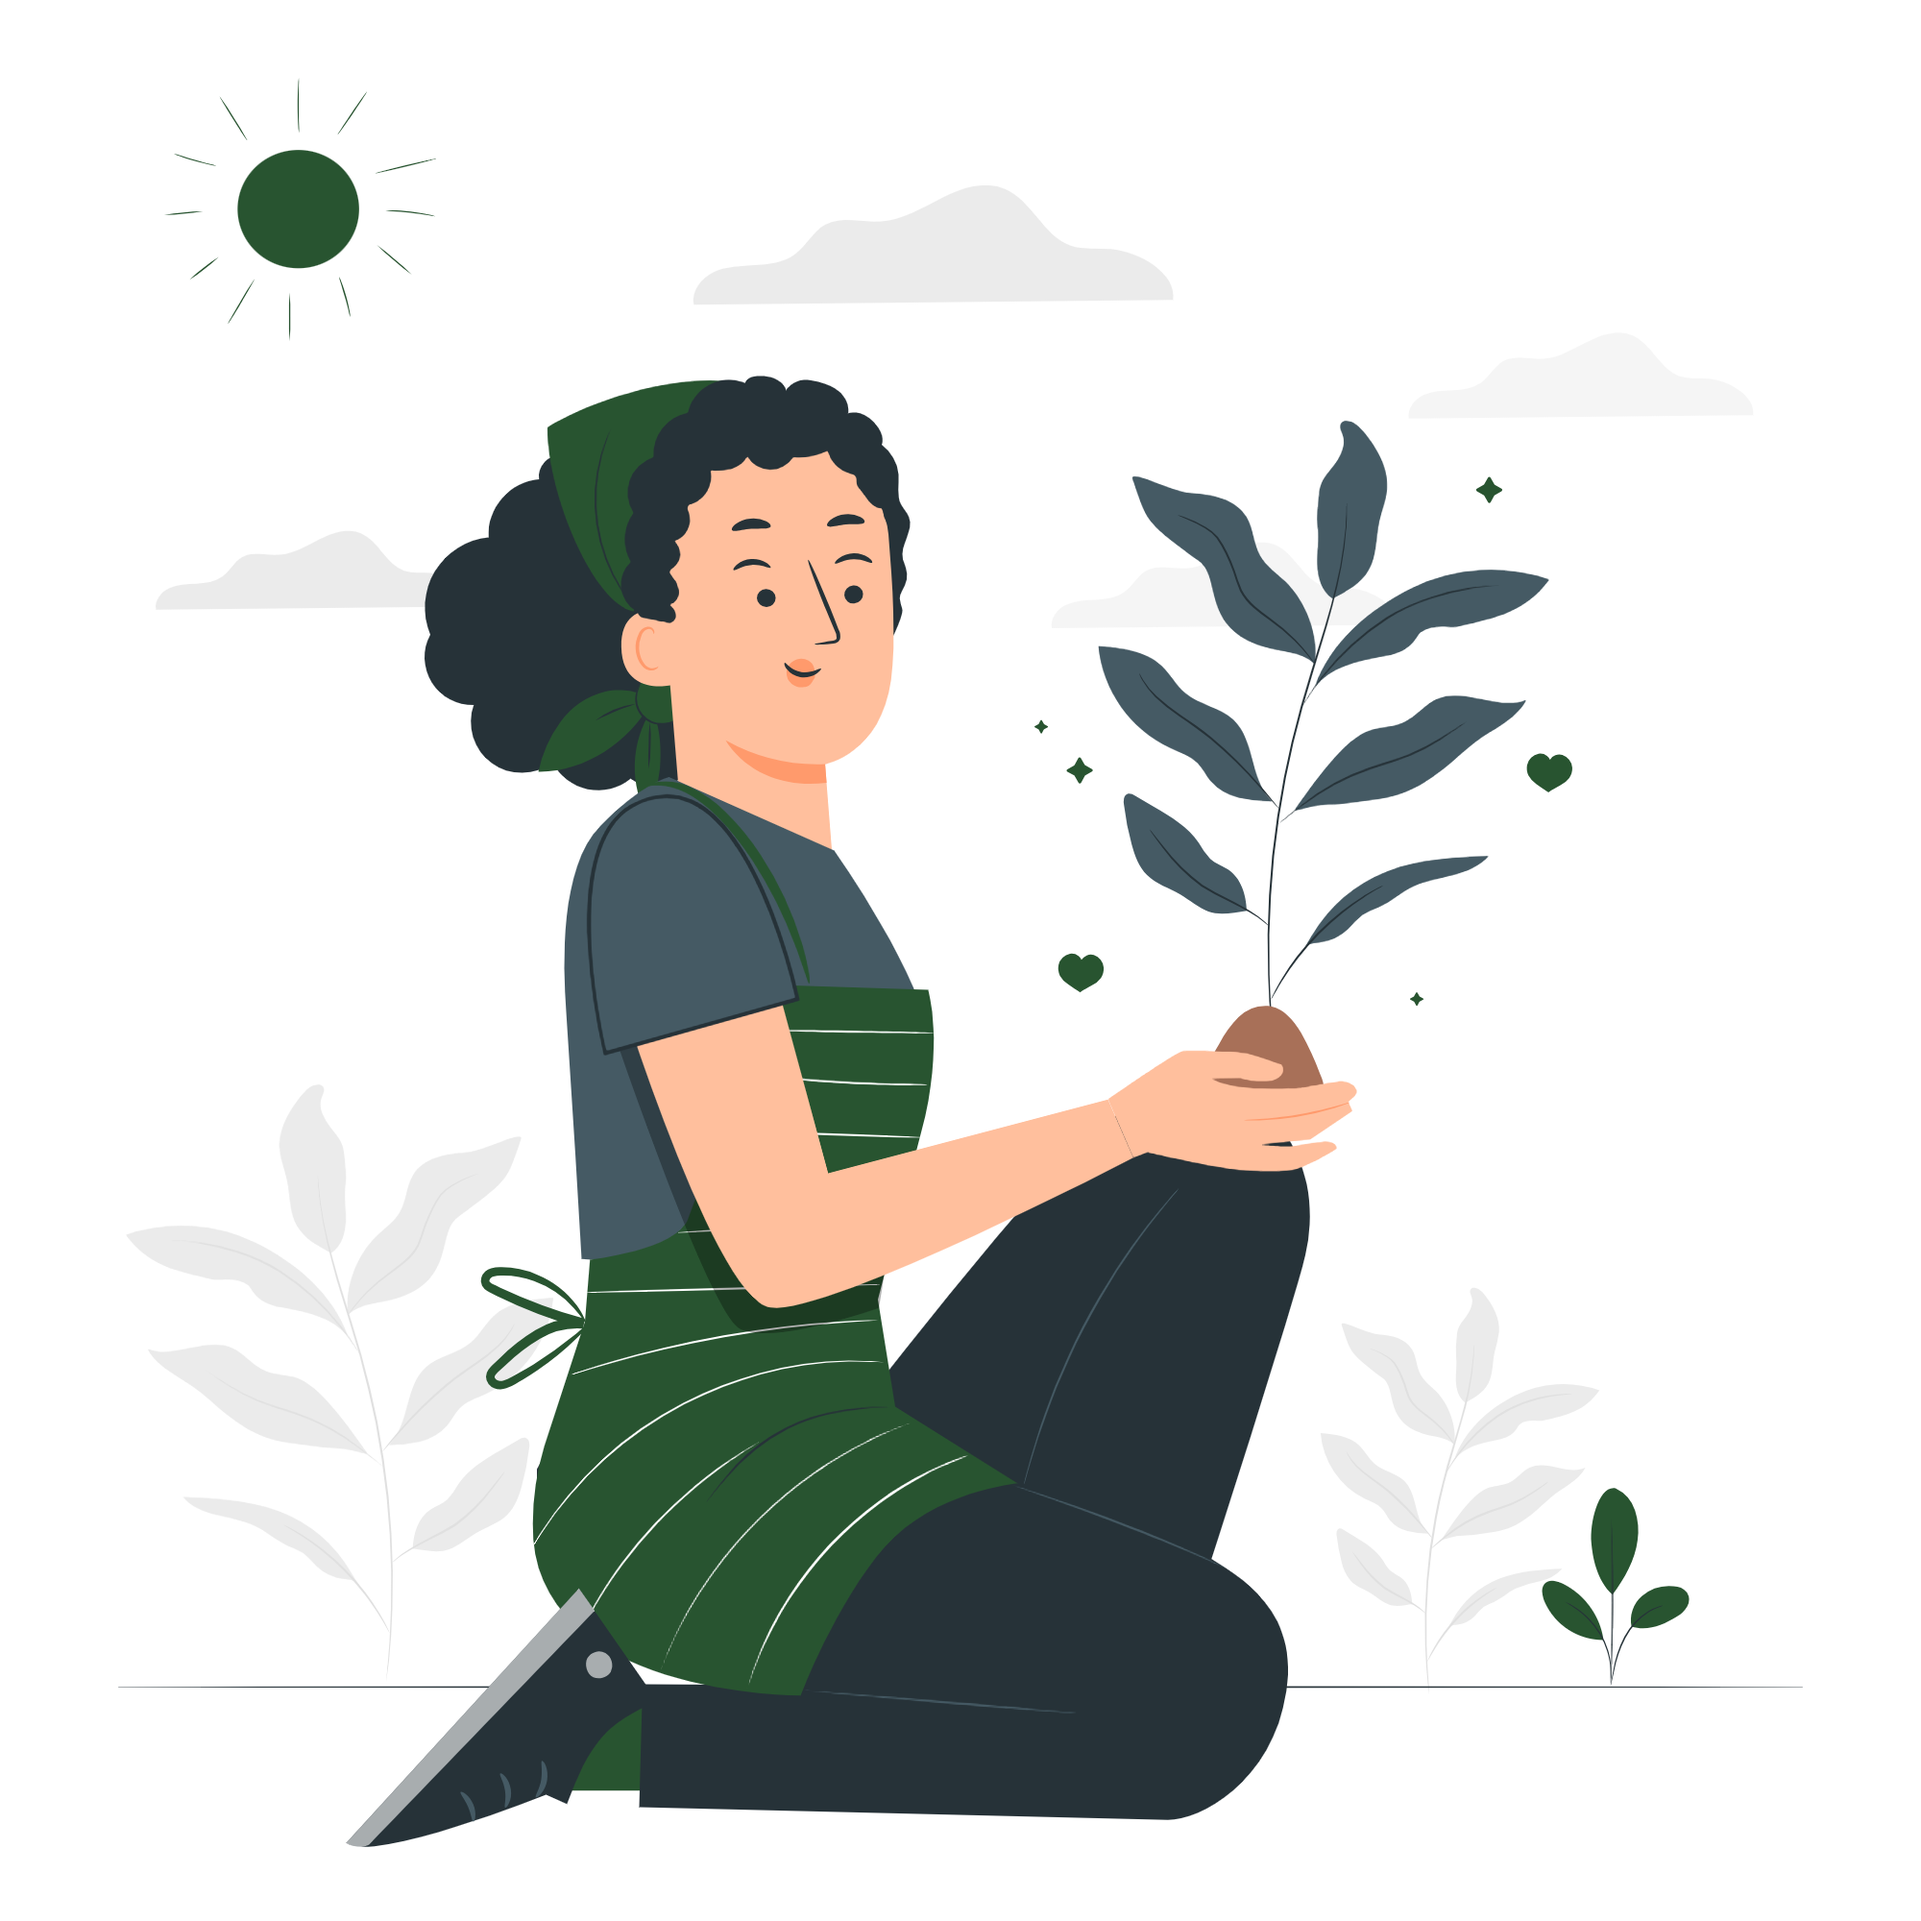
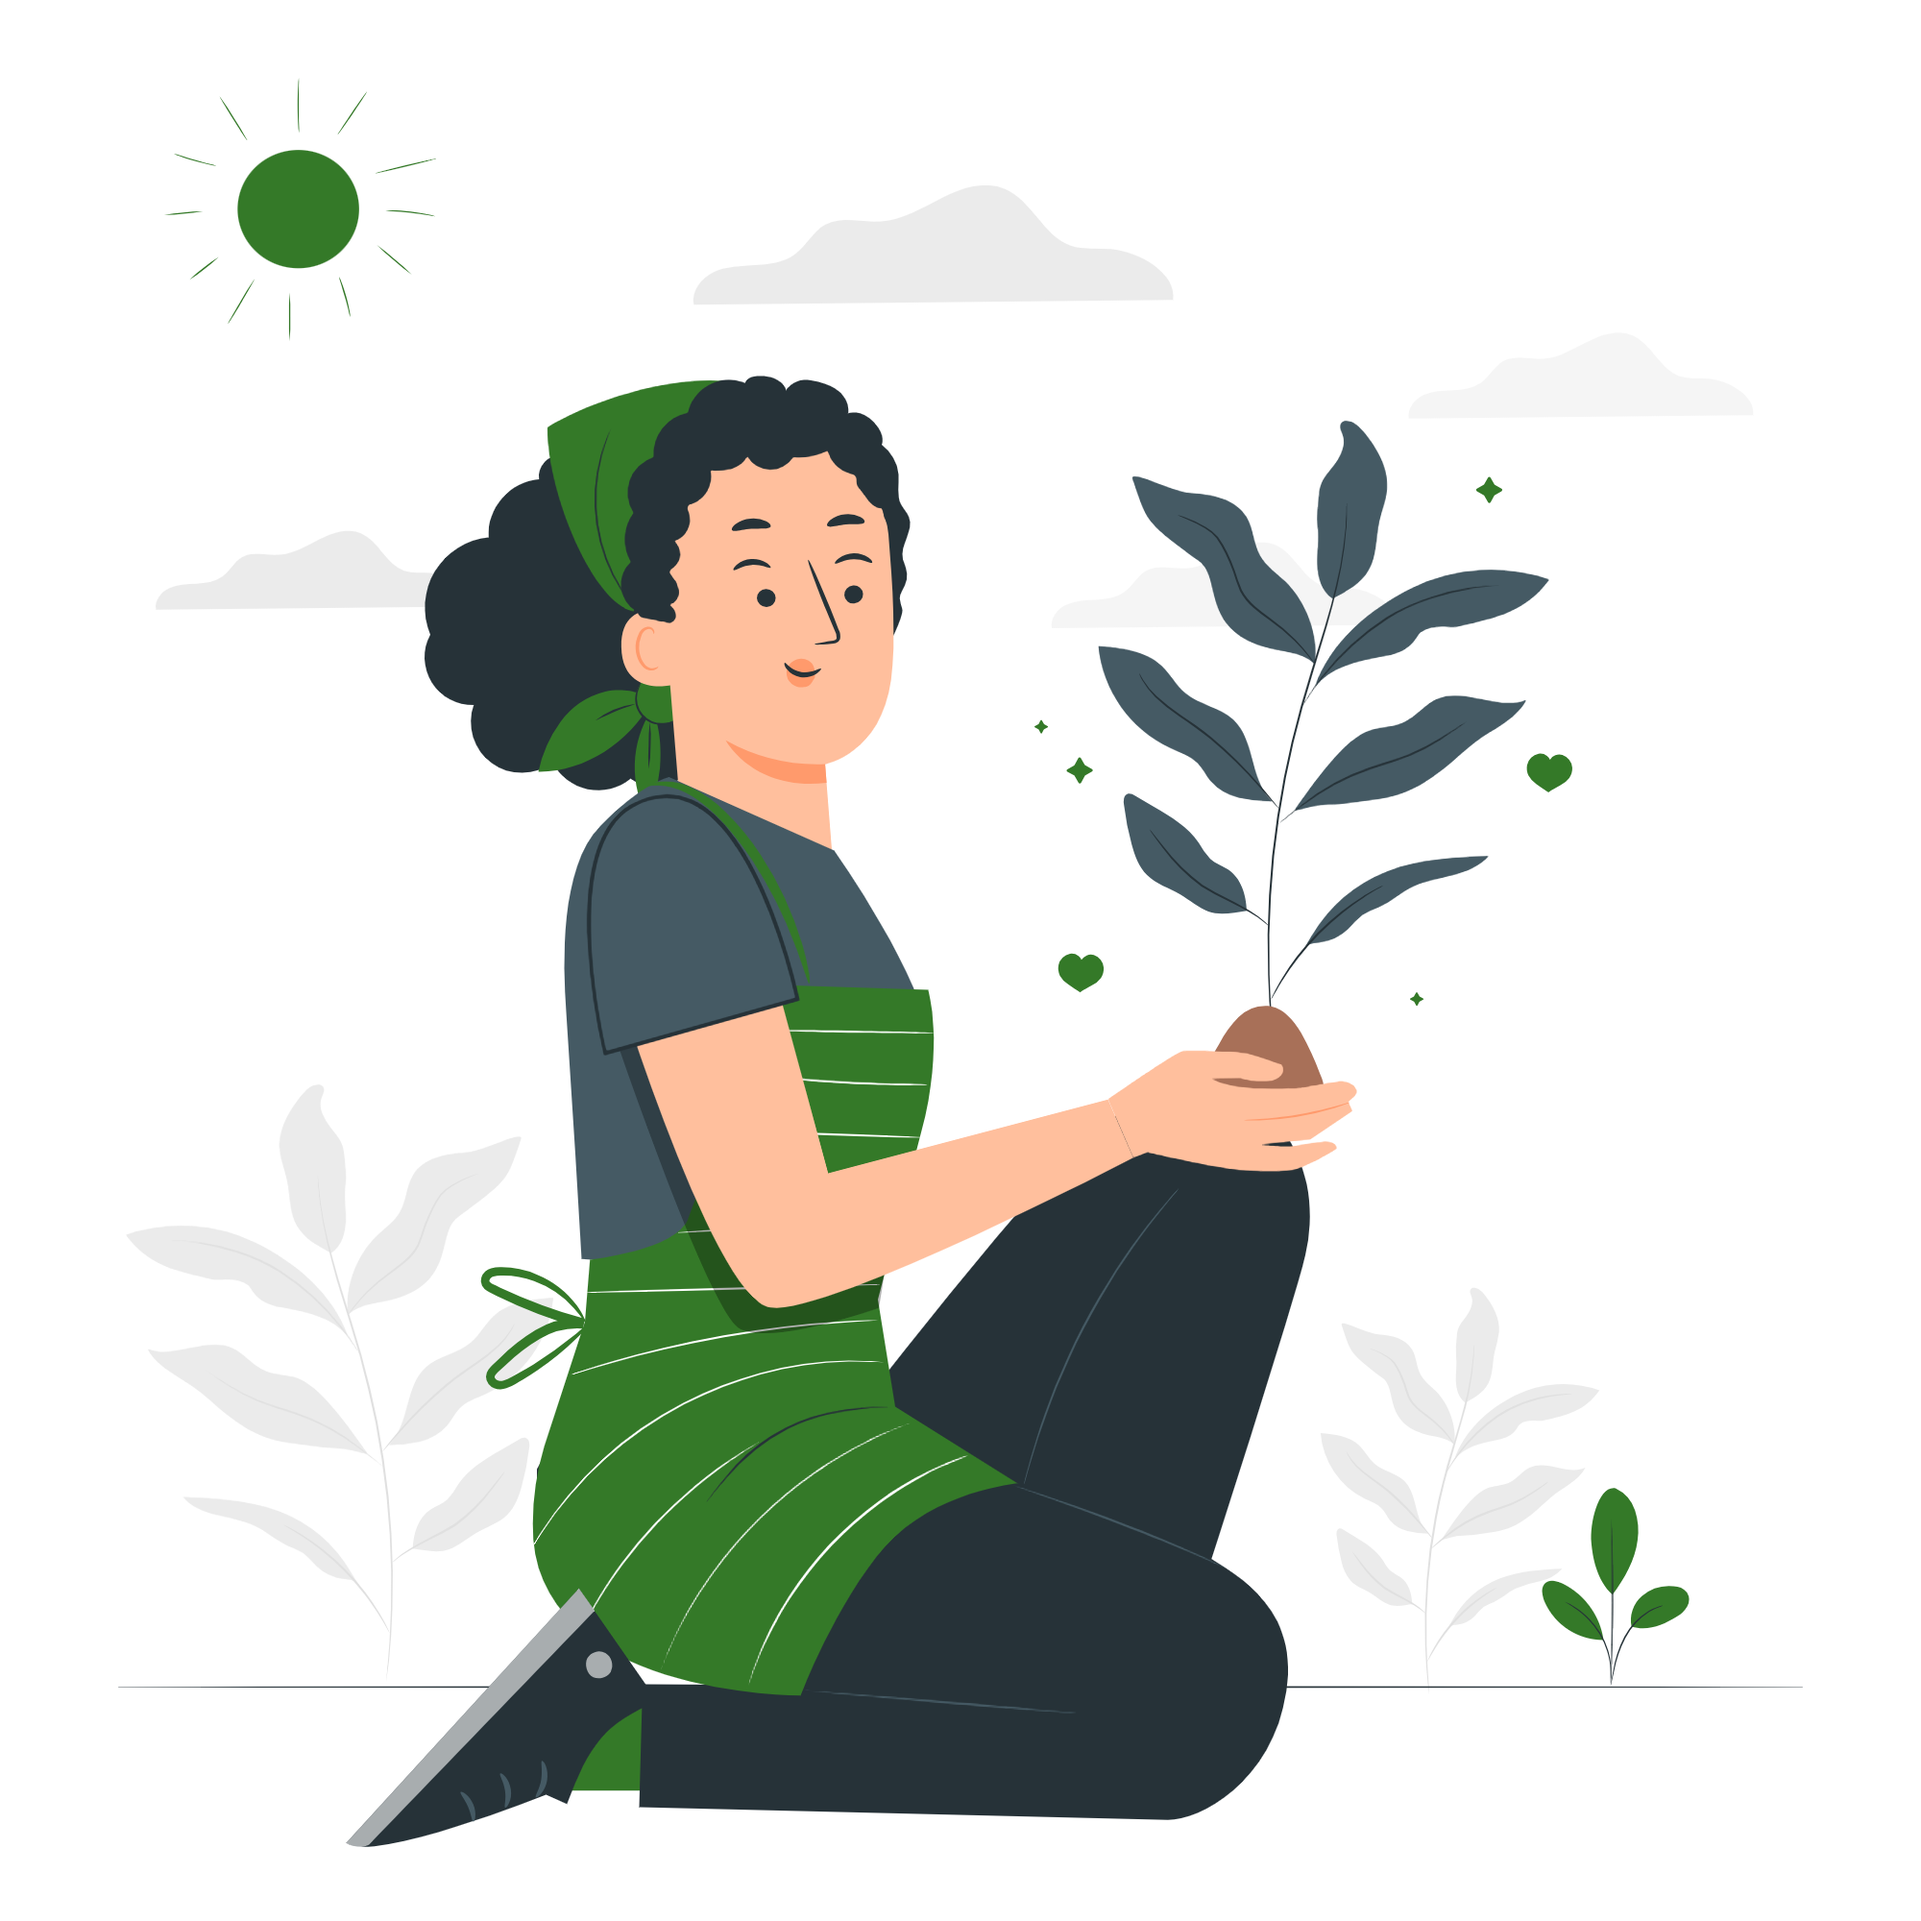
use new color pallete

diff --git a/styles/reset.css b/styles/reset.css
@@ -1,9 +1,9 @@
 @import url('https://fonts.googleapis.com/css2?family=Roboto:ital,wght@0,300;0,700;1,300&display=swap');
 
 :root {
-    --primary-color: #285430;
-    --secondary-color: #e6d9b6;
-    --tertiary-color: #fefefe;
+    --primary-color: #347928;
+    --secondary-color: #FFFBE6;
+    --tertiary-color: #C0EBA6;
 
     --primary-font-size: 2vw;
     --secondary-font-size: 1.3vw;
